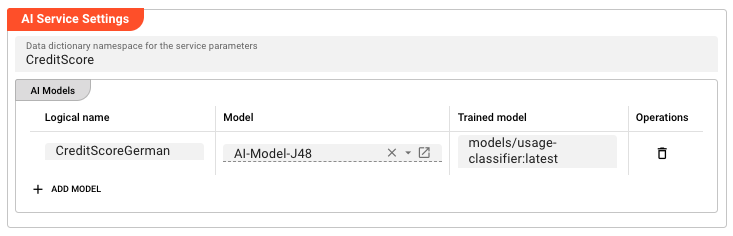
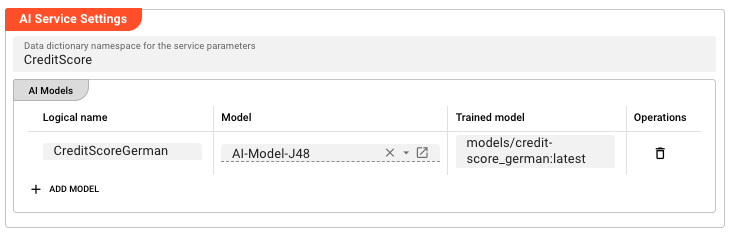
docs: update AI Service doc — new screenshot, incremental training example
- Replaced screenshot with new one (CreditScoreGerman / AI-Model-J48 / models/credit-score_german:latest)
- Added incremental training example: BeginTraining, Learn, FinishTraining with full JS code
- Confirmed invocation pattern: services.<ServiceName>.<LogicalName>Classify (no dot separator)
- Build passes

diff --git a/docs/03-assets/services/asset-service-ai.md b/docs/03-assets/services/asset-service-ai.md
@@ -123,7 +123,7 @@ An AI Service exposes a trained credit scoring model for use by a JavaScript Pro
 | Data dictionary namespace | `CreditScore` |
 | Logical name | `CreditScoreGerman` |
 | Model | `AI-Model-J48` |
-| Trained model | `models/usage-classifier:latest` |
+| Trained model | `models/credit-score_german:latest` |
 
 This exposes the function `CreditScoreGermanClassify(...)` in scripts.
 
@@ -134,7 +134,7 @@ In a JavaScript Processor, add `CreditScoringService` to its Service Assignments
 **Step 4 — Call from JavaScript:**
 
 ```javascript
-export function onMessage(message) {
+export function onMessage() {
     // Call the AI Classification function
     const result = await services.CreditScoringService.CreditScoreGermanClassify({
         call_type_ind: message.callType,
